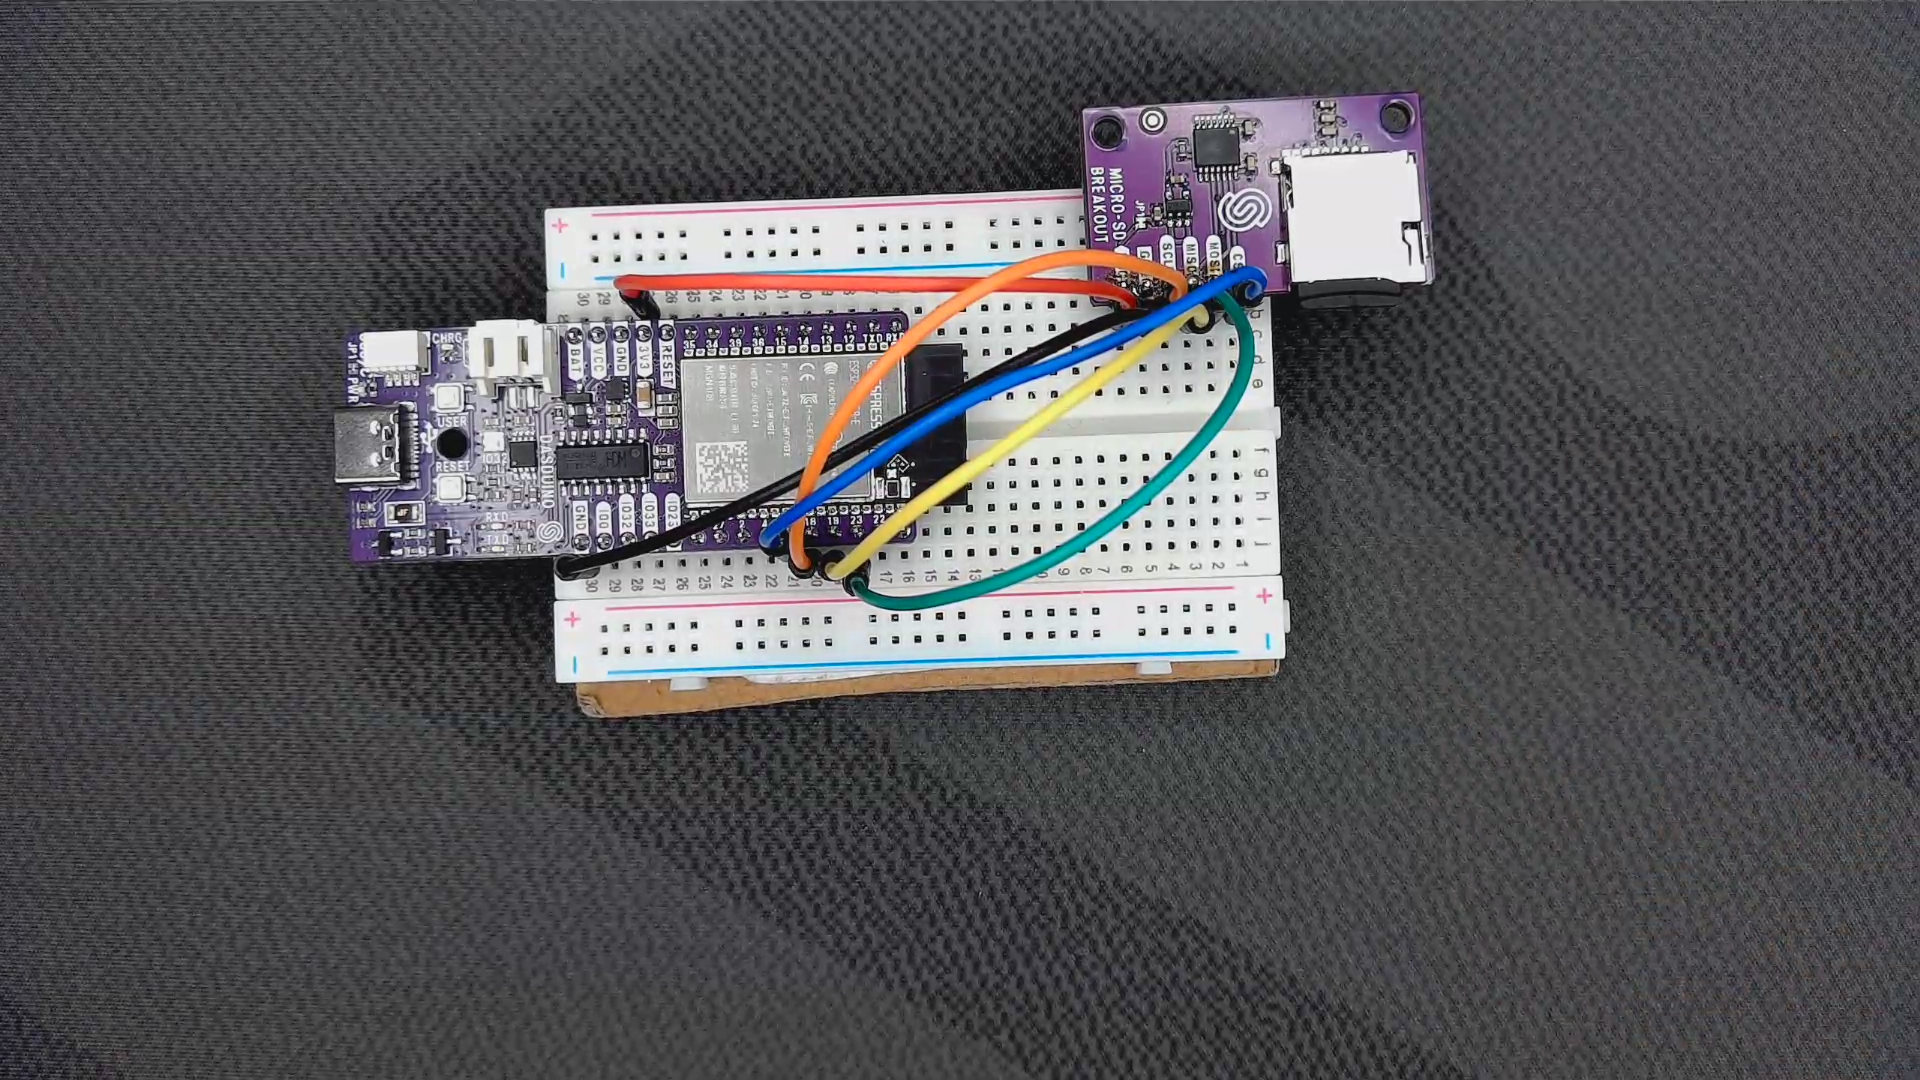
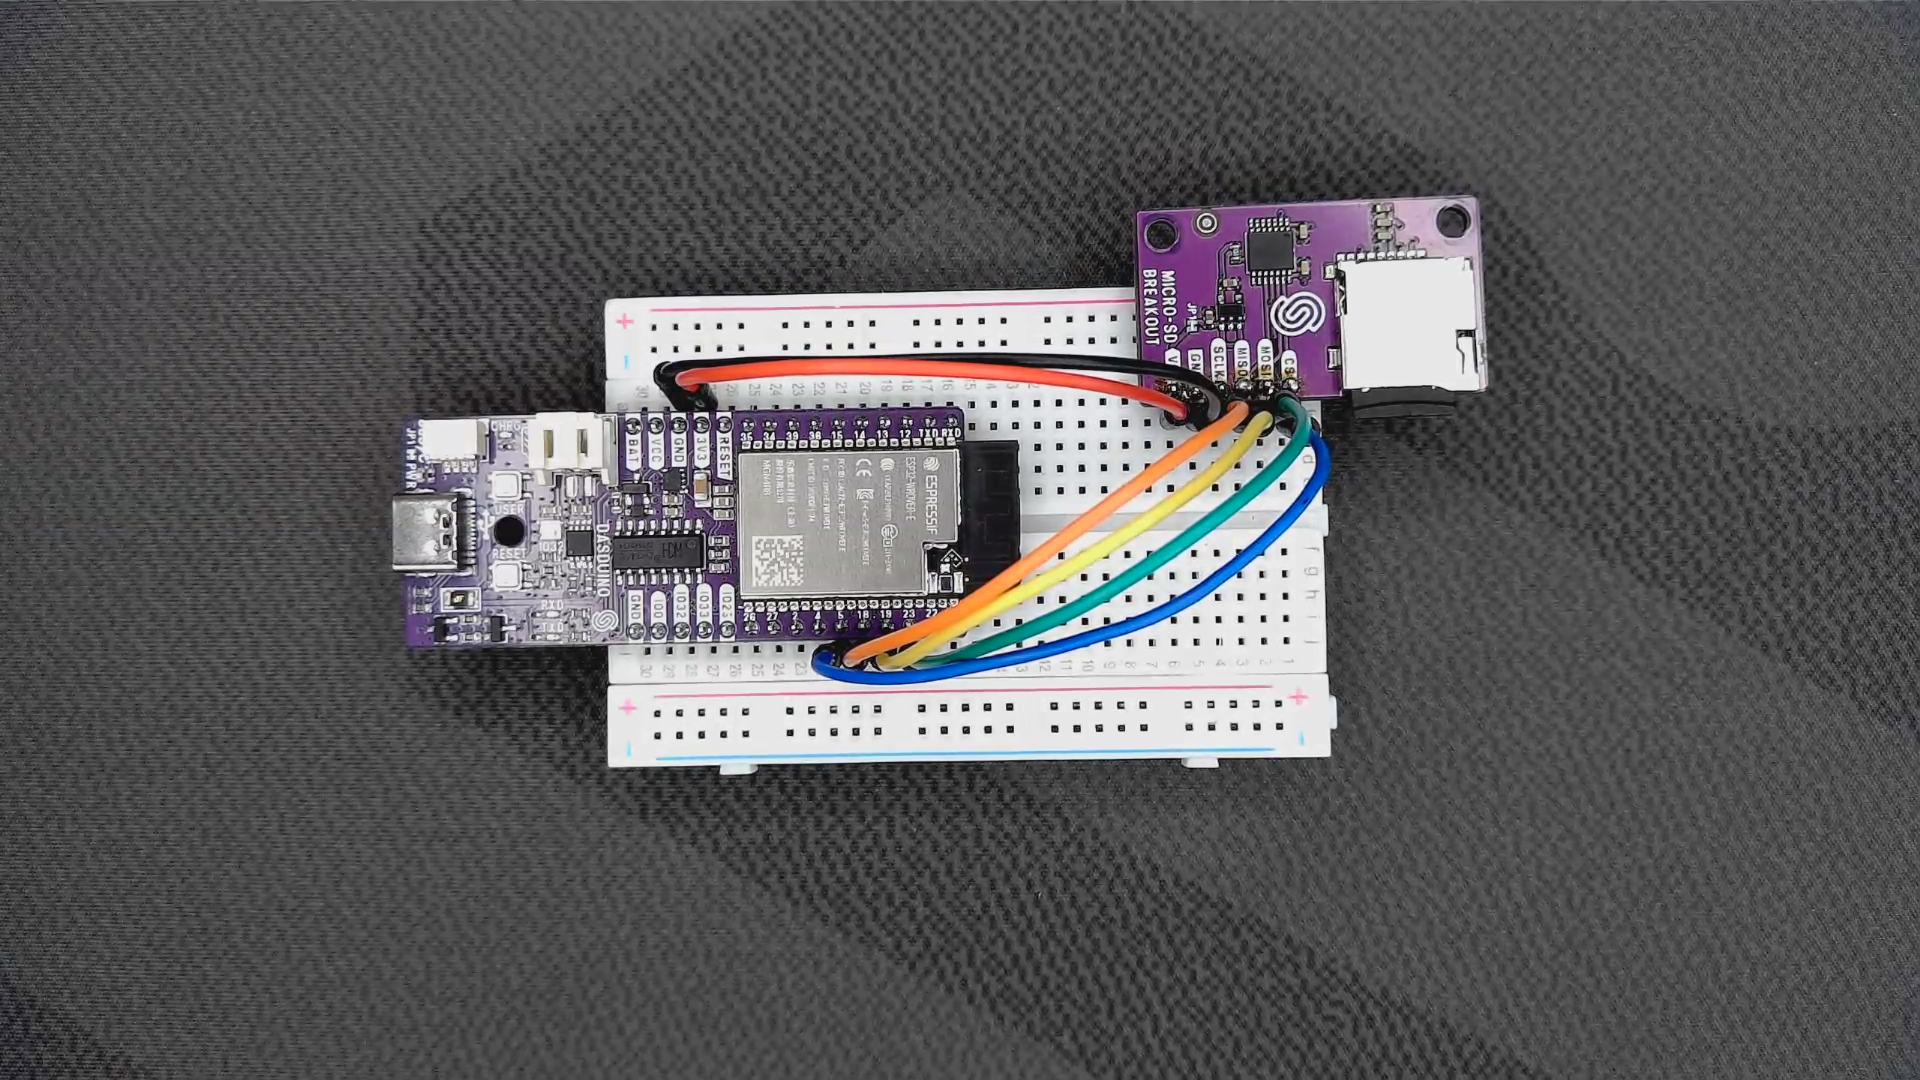
Take better picture and move to initialization page

diff --git a/soldered-documentation/docs/communication/microsd-reader/arduino_library/microsd-reader_arduino_2.md b/soldered-documentation/docs/communication/microsd-reader/arduino_library/microsd-reader_arduino_2.md
@@ -9,6 +9,12 @@ This page contains an example of initializing the SD card.
 
 ---
 
+## Connecting to the board
+
+<CenteredImage src="/img/microsd-reader/connections.png" alt="Connections" />
+
+---
+
 ## Defining the CS pin
 
 At the beginning of the example file, we define the pin to which the Chip Select (CS) is connected by changing the `SD_CS_PIN variable`. In this tutorial, we picked `GPIO5`:

diff --git a/soldered-documentation/docs/communication/microsd-reader/arduino_library/microsd-reader_arduino_1.md b/soldered-documentation/docs/communication/microsd-reader/arduino_library/microsd-reader_arduino_1.md
@@ -49,4 +49,3 @@ Below is an example connection diagram for **Dasduino CONNECTPLUS**. These pins 
 | GND                      | GND                |
 | 3.3V                     | VCC                |
 
-<CenteredImage src="/img/microsd-reader/connections.png" alt="Connections" />
